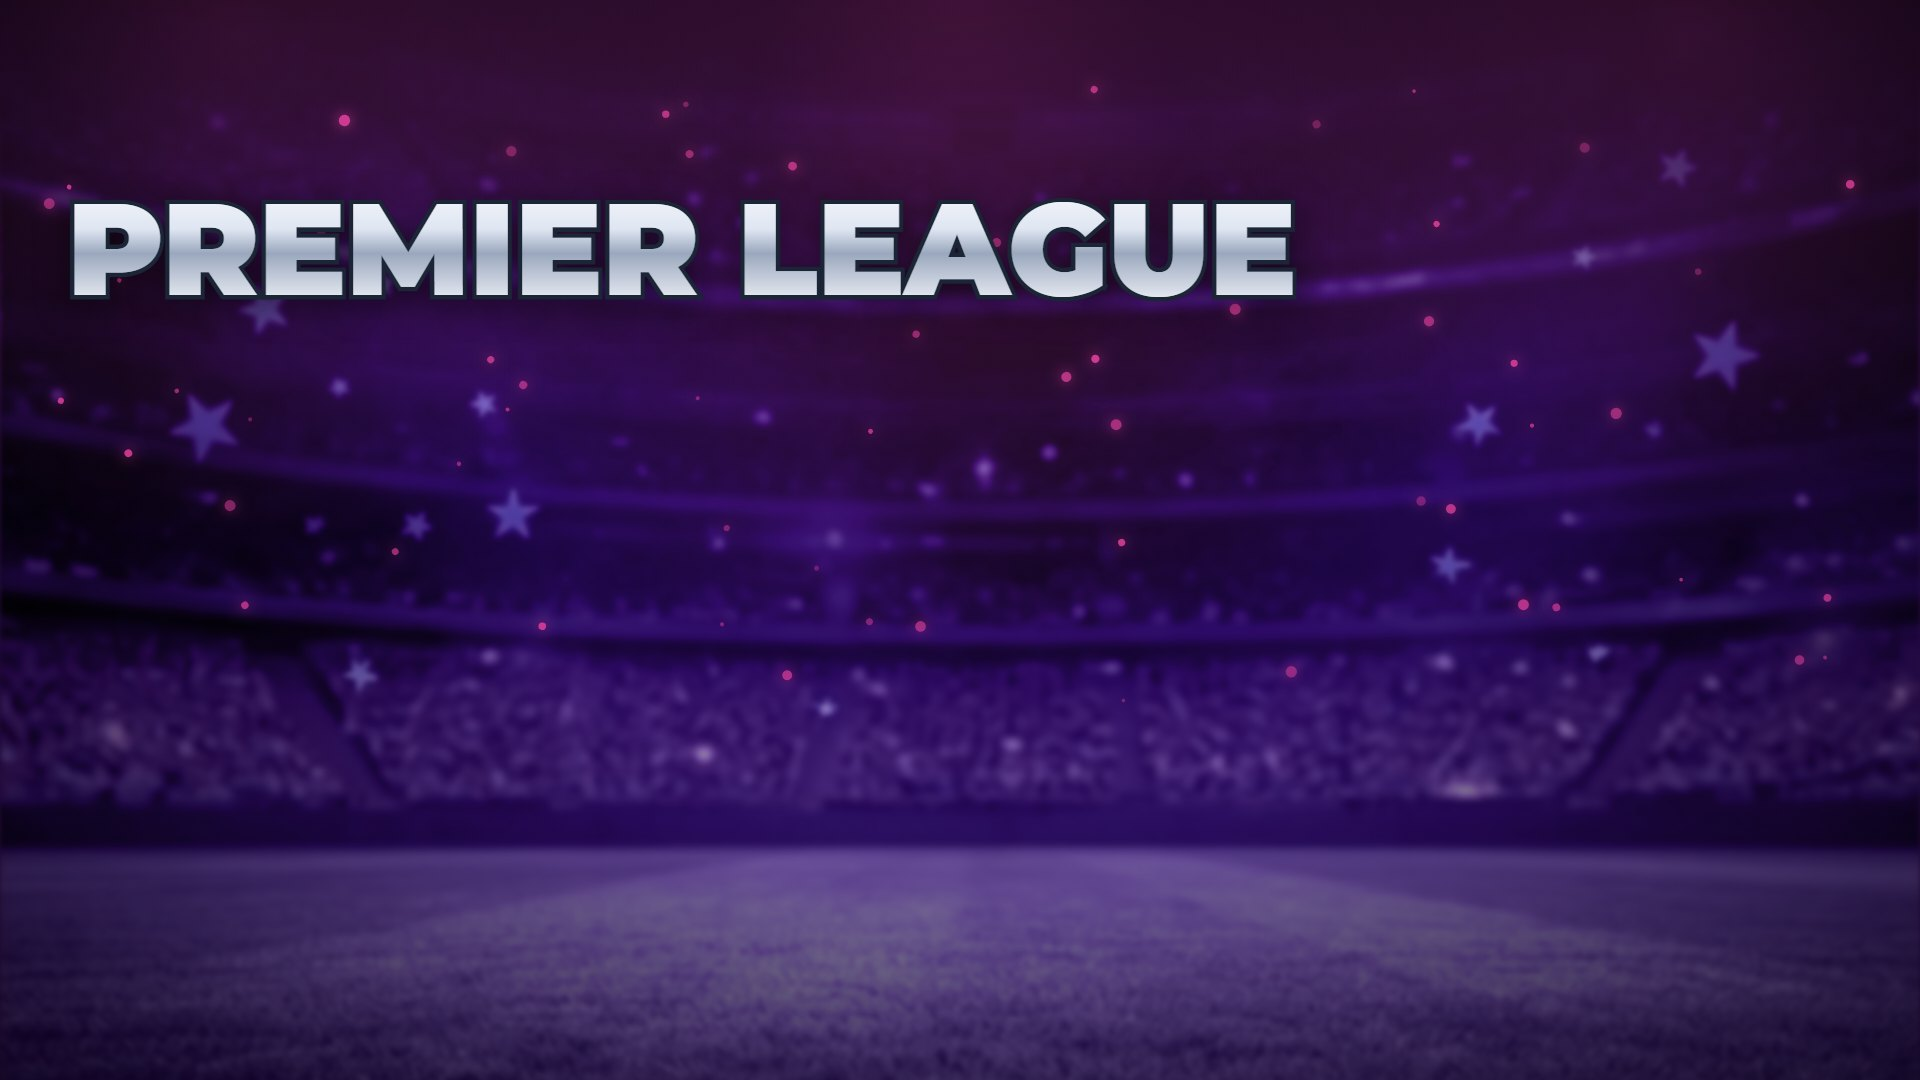
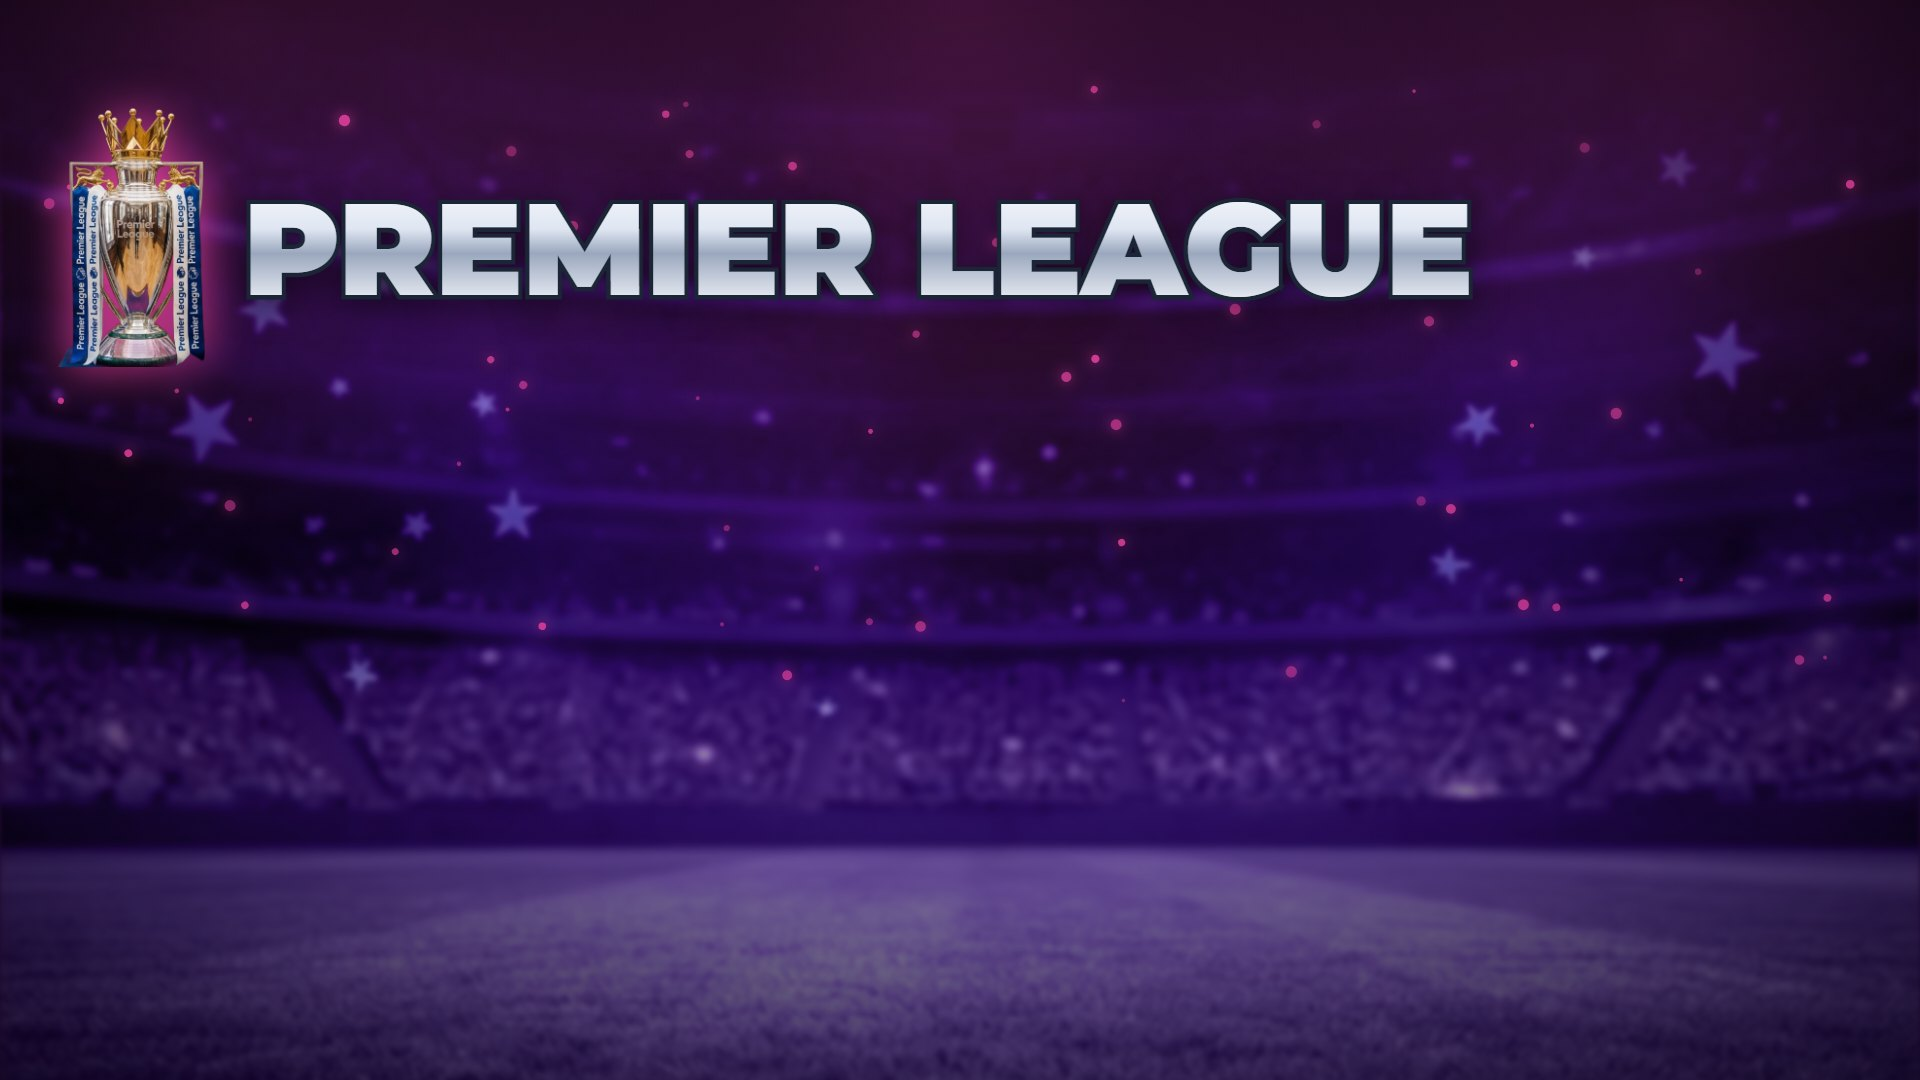
feat(esportes): taças da Premier, Champions e La Liga nos fundos; textos centralizados e maiores; sem rodapé na tela (Player 5.6.5) — F-89

Changed region(s): [[0.0, 0.0917, 0.7812, 0.3667]]

diff --git a/native-android-player/app/src/main/java/com/antigravity/player/util/NativeWidgetEngine.kt b/native-android-player/app/src/main/java/com/antigravity/player/util/NativeWidgetEngine.kt
@@ -1286,7 +1286,6 @@ object NativeWidgetEngine {
      */
     private fun buildSportsV2(context: Context, spec: WidgetSpec, bg: Bitmap?, w: Int, h: Int, base: Float, dados: EsportesPayload): View {
         val cores = spec.cores ?: CoresWidget.PADRAO
-        val creditos = spec.esportes?.creditos ?: "Dados: openfootball (CC0) · Wikipédia (CC BY-SA)"
         val tema = bg == null && dados.fundos.isNotEmpty()
         val root = if (tema) FrameLayout(context).apply {
             background = GradientDrawable(GradientDrawable.Orientation.TL_BR, intArrayOf(cores.c1, cores.c2, cores.c3))
@@ -1307,14 +1306,7 @@ object NativeWidgetEngine {
         col.addView(cabecalhoMarca(context, "⚽ FUTEBOL", base, cores), lp())
         val area = FrameLayout(context)
         col.addView(area, LinearLayout.LayoutParams(ViewGroup.LayoutParams.MATCH_PARENT, 0, 1f))
-        val rodape = LinearLayout(context).apply { orientation = LinearLayout.HORIZONTAL; gravity = Gravity.CENTER_VERTICAL }
-        rodape.addView(text(context, base * 0.019f, color = Color.argb(160, 255, 255, 255)).apply {
-            text = "Horário de Brasília · $creditos"; gravity = Gravity.START; setShadowLayer(0f, 0f, 0f, 0)
-        }, LinearLayout.LayoutParams(0, ViewGroup.LayoutParams.WRAP_CONTENT, 1f))
-        val contador = text(context, base * 0.019f, color = Color.argb(160, 255, 255, 255))
-        rodape.addView(contador)
-        col.addView(rodape, lp(top = px(base * 0.012f)))
-
+        // Sem rodapé na tela (pedido do proprietário, F-89): nem fonte dos dados, nem horário, nem contador de páginas.
         if (dados.indices.isEmpty()) {
             area.addView(text(context, base * 0.036f, color = Color.argb(215, 255, 255, 255), lines = 2).apply {
                 text = "Sem jogos nos 3 dias anteriores nem nos próximos 3 dias."
@@ -1334,9 +1326,8 @@ object NativeWidgetEngine {
             val vertical = h > w * 1.2f
             area.addView(paginaEsportes(context, dados.paginas[indice], dados.hoje, dados.escudos, base, cores, tema,
                 espacoTitulo = if (tituloNaArte) px(h * (if (vertical) 0.3f else 0.25f)) else 0,
-                escala = if (tituloNaArte && !vertical) 0.8f else 1f, centralizarSubtitulo = vertical),
+                escala = if (tituloNaArte && !vertical) 0.8f else 1f),
                 FrameLayout.LayoutParams(ViewGroup.LayoutParams.MATCH_PARENT, ViewGroup.LayoutParams.MATCH_PARENT))
-            contador.text = if (total > 1) "${indice + 1}/$total" else ""
             gravarCursorEsportes(context.applicationContext, spec.widgetId, EsportesPaginas.cursorDepois(indice, total, dados.hoje))
         }
         mostrar(dados.indices[0])
@@ -1363,13 +1354,13 @@ object NativeWidgetEngine {
 
     private fun paginaEsportes(
         context: Context, p: PaginaEsportes, hoje: String, escudos: Map<String, Bitmap>, base: Float, cores: CoresWidget,
-        escuro: Boolean = false, espacoTitulo: Int = 0, escala: Float = 1f, centralizarSubtitulo: Boolean = false
+        escuro: Boolean = false, espacoTitulo: Int = 0, escala: Float = 1f
     ): View {
         val pagina = LinearLayout(context).apply { orientation = LinearLayout.VERTICAL }
         if (espacoTitulo > 0) {
             pagina.addView(View(context), LinearLayout.LayoutParams(ViewGroup.LayoutParams.MATCH_PARENT, espacoTitulo))
-            pagina.addView(text(context, base * 0.03f, bold = true, color = Color.argb(230, 255, 255, 255)).apply {
-                text = "RESULTADOS E PRÓXIMOS JOGOS"; gravity = if (centralizarSubtitulo) Gravity.CENTER else Gravity.START; letterSpacing = 0.18f
+            pagina.addView(text(context, base * 0.044f, bold = true).apply {
+                text = "RESULTADOS E PRÓXIMOS JOGOS"; gravity = Gravity.CENTER; letterSpacing = 0.16f
             }, lp())
             val corpoArte = LinearLayout(context).apply { orientation = LinearLayout.VERTICAL; gravity = Gravity.CENTER_VERTICAL }
             pagina.addView(corpoArte, LinearLayout.LayoutParams(ViewGroup.LayoutParams.MATCH_PARENT, 0, 1f))
@@ -1398,12 +1389,13 @@ object NativeWidgetEngine {
     private fun secoesEsportes(context: Context, corpo: LinearLayout, p: PaginaEsportes, hoje: String, escudos: Map<String, Bitmap>, base: Float, cores: CoresWidget, escuro: Boolean) {
         fun secao(rotulo: String, jogos: List<JogoEsporte>, encerrado: Boolean, topo: Int) {
             if (jogos.isEmpty()) return
-            val cab = LinearLayout(context).apply { orientation = LinearLayout.HORIZONTAL; gravity = Gravity.CENTER_VERTICAL }
-            cab.addView(text(context, base * 0.025f, bold = true, color = cores.selo).apply {
+            val cab = LinearLayout(context).apply { orientation = LinearLayout.HORIZONTAL; gravity = Gravity.CENTER }
+            fun linhaDivisoria() = View(context).apply { setBackgroundColor(CoresWidget.comAlfa(cores.selo, 128)) }
+            cab.addView(linhaDivisoria(), LinearLayout.LayoutParams(0, px(base * 0.0015f).coerceAtLeast(1), 1f).apply { marginEnd = px(base * 0.016f) })
+            cab.addView(text(context, base * 0.029f, bold = true, color = cores.selo).apply {
                 text = rotulo; letterSpacing = 0.2f; setShadowLayer(0f, 0f, 0f, 0)
             })
-            cab.addView(View(context).apply { setBackgroundColor(CoresWidget.comAlfa(cores.selo, 128)) },
-                LinearLayout.LayoutParams(0, px(base * 0.0015f).coerceAtLeast(1), 1f).apply { marginStart = px(base * 0.012f) })
+            cab.addView(linhaDivisoria(), LinearLayout.LayoutParams(0, px(base * 0.0015f).coerceAtLeast(1), 1f).apply { marginStart = px(base * 0.016f) })
             corpo.addView(cab, lp(top = topo))
             jogos.forEach { j -> corpo.addView(linhaJogoV2(context, j, hoje, escudos, base, cores, encerrado, escuro), lp(top = px(base * 0.01f))) }
         }

diff --git a/docs/engineering/evidence/F-86_esportes_v2/gerador_fundos_v2.html b/docs/engineering/evidence/F-86_esportes_v2/gerador_fundos_v2.html
@@ -15,9 +15,9 @@ function rng(seed) { let s = seed; return () => (s = (s * 16807) % 2147483647) /
 const TEMAS = {
   'copa-do-brasil':   { placa: 'dourada', taca: 'copa', linhas: ['COPA DO BRASIL'], estilo: 'ouro', particula: 'confete', tinta: null, brilho: '#ffcf4d' },
   brasileirao:        { placa: 'azul', taca: 'brasileirao', linhas: ['BRASILEIRÃO', 'SÉRIE A'], estilo: 'prata', particula: 'estrela', tinta: null, brilho: '#5aa9ff' },
-  'premier-league':   { placa: 'azul', taca: null, linhas: ['PREMIER LEAGUE'], estilo: 'prata', particula: 'faisca', tinta: '#6a1bb0', brilho: '#e0409a' },
-  'la-liga':          { placa: 'azul', taca: null, linhas: ['LA LIGA'], estilo: 'prata', particula: 'faisca', tinta: '#c0162c', brilho: '#ff7a3d' },
-  'champions-league': { placa: 'azul', taca: null, linhas: ['CHAMPIONS LEAGUE'], estilo: 'prata', particula: 'estrela', tinta: '#0b2d8a', brilho: '#b9d4ff' },
+  'premier-league':   { placa: 'azul', taca: 'premier', linhas: ['PREMIER LEAGUE'], estilo: 'prata', particula: 'faisca', tinta: '#6a1bb0', brilho: '#e0409a' },
+  'la-liga':          { placa: 'azul', taca: 'laliga', linhas: ['LA LIGA'], estilo: 'prata', particula: 'faisca', tinta: '#c0162c', brilho: '#ff7a3d' },
+  'champions-league': { placa: 'azul', taca: 'champions', linhas: ['CHAMPIONS LEAGUE'], estilo: 'prata', particula: 'estrela', tinta: '#0b2d8a', brilho: '#b9d4ff' },
 };
 
 function gradienteTexto(ctx, estilo, y0, y1) {
@@ -27,9 +27,11 @@ function gradienteTexto(ctx, estilo, y0, y1) {
   return g;
 }
 
-function texto(ctx, t, x, y, tam, estilo, alinhar) {
+function texto(ctx, t, x, y, tam, estilo, alinhar, larguraMax) {
   ctx.save();
   ctx.font = `900 ${tam}px Montserrat`;
+  // nome longo (ex.: CHAMPIONS LEAGUE): a letra diminui até caber na largura disponível
+  if (larguraMax) { const l = ctx.measureText(t).width; if (l > larguraMax) { tam = tam * (larguraMax / l); ctx.font = `900 ${tam}px Montserrat`; } }
   ctx.textAlign = alinhar; ctx.textBaseline = 'alphabetic';
   ctx.shadowColor = 'rgba(0,0,0,0.75)'; ctx.shadowBlur = tam * 0.25; ctx.shadowOffsetY = tam * 0.06;
   ctx.lineWidth = Math.max(3, tam * 0.07); ctx.strokeStyle = estilo === 'ouro' ? '#3a2600' : '#1b2536';
@@ -100,7 +102,7 @@ async function desenhar(slug, tema, W, H, ref, tacas) {
     }
     const tamA = tema.linhas.length > 1 ? H * 0.105 : H * 0.12;
     const yA = topo + (tema.linhas.length > 1 ? altura * 0.58 : altura * 0.72);
-    texto(ctx, tema.linhas[0], xTexto, yA, tamA, tema.estilo, 'left');
+    texto(ctx, tema.linhas[0], xTexto, yA, tamA, tema.estilo, 'left', W * 0.96 - xTexto);
     if (tema.linhas[1]) texto(ctx, tema.linhas[1], xTexto + 4, yA + H * 0.075, H * 0.055, 'prata', 'left');
   } else {
     const topo = H * 0.07;
@@ -111,7 +113,7 @@ async function desenhar(slug, tema, W, H, ref, tacas) {
       yTexto = topo + th + H * 0.05;
     }
     const tamA = Math.min(W * 0.115, (W * 0.9) / (tema.linhas[0].length * 0.62));
-    texto(ctx, tema.linhas[0], W / 2, yTexto, tamA, tema.estilo, 'center');
+    texto(ctx, tema.linhas[0], W / 2, yTexto, tamA, tema.estilo, 'center', W * 0.92);
     if (tema.linhas[1]) texto(ctx, tema.linhas[1], W / 2, yTexto + H * 0.035, W * 0.055, 'prata', 'center');
   }
   return new Promise((ok) => c.toBlob(ok, 'image/jpeg', 0.86));
@@ -121,7 +123,8 @@ async function desenhar(slug, tema, W, H, ref, tacas) {
   try {
     await document.fonts.load('900 80px Montserrat');
     const ref = await carregar('/ref3.png');
-    const tacas = { copa: await carregar('/recortes/copa_ref_recorte.png'), brasileirao: await carregar('/recortes/brasileirao_ref_recorte.png') };
+    const tacas = { copa: await carregar('/recortes/copa_ref_recorte.png'), brasileirao: await carregar('/recortes/brasileirao_ref_recorte.png'),
+      premier: await carregar('/recortes/premier_ref_recorte.png'), champions: await carregar('/recortes/champions_ref_recorte.png'), laliga: await carregar('/recortes/laliga_ref_recorte.png') };
     for (const [slug, tema] of Object.entries(TEMAS)) {
       for (const [suf, W, H] of [['h', 1920, 1080], ['v', 1080, 1920]]) {
         const blob = await desenhar(slug, tema, W, H, ref, tacas);

diff --git a/src/components/player/SportsWidget.tsx b/src/components/player/SportsWidget.tsx
@@ -8,8 +8,6 @@ import {
   type CursorEsportes, type JogoJanela, type PaginaEsportes,
 } from '@/lib/esportesPaginas';
 
-const CREDITOS = 'Dados: openfootball (CC0) · Wikipédia (CC BY-SA)';
-
 function lerCursor(widgetId?: string): CursorEsportes | null {
   if (!widgetId) return null;
   try {
@@ -173,7 +171,7 @@ export function SportsWidget({ config, dados: dadosServidor, backgroundImage, co
             <div data-testid="sports-titulo-na-arte">
               <h2 className="sr-only" data-testid="sports-competicao">{pagina.competicao}</h2>
               <div style={{ height: vertical ? '30cqh' : '25cqh' }} />
-              <p className={cn('text-[3cqmin] font-bold uppercase tracking-[0.18em] text-white/90', vertical && 'text-center')} data-testid="sports-subtitulo">Resultados e próximos jogos</p>
+              <p className="text-center text-[4.4cqmin] font-extrabold uppercase leading-tight tracking-[0.16em] text-white drop-shadow" data-testid="sports-subtitulo">Resultados e próximos jogos</p>
             </div>
           ) : (
             <div className="border-l-[0.9cqmin] pl-[1.8cqmin]" style={{ borderColor: c.selo }}>
@@ -201,10 +199,8 @@ export function SportsWidget({ config, dados: dadosServidor, backgroundImage, co
         </p>
       )}
 
-      <div className="relative z-10 mt-[1.2cqmin] flex items-center justify-between gap-2 text-[1.9cqmin] text-white/60">
-        <span>Horário de Brasília · {dados?.creditos ?? CREDITOS}</span>
-        {paginas.length > 1 && <span className="tabular-nums" data-testid="sports-pagina">{indice + 1}/{paginas.length}</span>}
-      </div>
+      {/* Sem rodapé na tela (pedido do proprietário): a posição da página fica só para leitores de tela. */}
+      {paginas.length > 1 && <span className="sr-only" data-testid="sports-pagina">{indice + 1}/{paginas.length}</span>}
     </div>
   );
 }
@@ -214,8 +210,9 @@ function chaveJogo(j: JogoJanela) { return `${j.slug}-${j.data}-${j.mandante}-${
 function Secao({ titulo, cor, children }: { titulo: string; cor: string; children: React.ReactNode }) {
   return (
     <section className="flex flex-col gap-[1cqmin]" data-testid={`sports-secao-${titulo === 'RESULTADOS' ? 'resultados' : 'proximos'}`}>
-      <div className="flex items-center gap-[1.2cqmin]">
-        <span className="text-[2.5cqmin] font-extrabold tracking-[0.2em]" style={{ color: cor }}>{titulo}</span>
+      <div className="flex items-center justify-center gap-[1.6cqmin]">
+        <span className="h-px flex-1" style={{ background: rgba(cor, 0.5) }} />
+        <span className="text-[2.9cqmin] font-extrabold tracking-[0.2em]" style={{ color: cor }} data-testid="sports-rotulo-secao">{titulo}</span>
         <span className="h-px flex-1" style={{ background: rgba(cor, 0.5) }} />
       </div>
       {children}

diff --git a/src/tests/unit/esportesWidget.test.tsx b/src/tests/unit/esportesWidget.test.tsx
@@ -179,3 +179,19 @@ describe('Esportes v2 — fundo com a taça e o nome da competição (F-88)', ()
     expect(screen.getByTestId('sports-competicao')).not.toHaveClass('sr-only');
   });
 });
+
+describe('Esportes v2 — tela limpa (F-89)', () => {
+  beforeEach(() => { vi.useFakeTimers({ toFake: ['setTimeout', 'clearTimeout', 'Date'] }); vi.setSystemTime(new Date('2026-10-10T12:00:00-03:00')); localStorage.clear(); });
+  afterEach(() => { vi.useRealTimers(); localStorage.clear(); });
+
+  it('sem rodapé visível: nem a fonte dos dados, nem "Horário de Brasília", nem o contador de páginas', () => {
+    render(<SportsWidget config={{}} dados={v2(JANELA)} widgetId="w5" modo="player" />);
+    expect(screen.queryByText(/openfootball|Wikipédia|Horário de Brasília/)).toBeNull();
+    expect(screen.getByTestId('sports-pagina')).toHaveClass('sr-only');
+  });
+
+  it('RESULTADOS e PRÓXIMOS JOGOS centralizados (linha dos dois lados)', () => {
+    render(<SportsWidget config={{}} dados={v2(JANELA)} widgetId="w6" modo="player" />);
+    for (const r of screen.getAllByTestId('sports-rotulo-secao')) expect(r.parentElement).toHaveClass('justify-center');
+  });
+});

diff --git a/docs/engineering/FINDINGS_LEDGER.md b/docs/engineering/FINDINGS_LEDGER.md
@@ -911,3 +911,14 @@ Cadeia auditada: `ScreenDetails` (Lista de Reprodução) e `PlaylistItemsDialog`
   - O 1º desenho mostrou o subtítulo sobre o letreiro da arte. O espaço reservado passou a 25% da altura na horizontal (linhas a 80%) e 30% na vertical, com o subtítulo centralizado na vertical.
   - Resultado: taça + nome da arte, depois "RESULTADOS E PRÓXIMOS JOGOS" e os jogos, sem sobreposição (evidência `player564_*_arte.png`).
[1 lines of base64/hex data omitted]
+
+### F-89 — Esportes: taças da Premier, Champions e La Liga; textos centralizados; sem rodapé — DONE (Player 5.6.5)
+- **Taças:** as três foram recortadas localmente da imagem enviada pelo proprietário e colocadas nos fundos 16:9 e 9:16, no mesmo padrão da Copa do Brasil e do Brasileirão. O letreiro se ajusta à largura disponível (CHAMPIONS LEAGUE / PREMIER LEAGUE). URLs `?v=4` (migração `20261259`).
+- **Textos:**
+  - "RESULTADOS E PRÓXIMOS JOGOS" centralizado e maior (4,4% da menor dimensão, proporcional em 16:9 e 9:16).
+  - "RESULTADOS" e "PRÓXIMOS JOGOS" (amarelo) centralizados, com linha dos dois lados.
+- **Rodapé removido da tela** (pedido do proprietário): sem "Horário de Brasília", sem a fonte dos dados e sem o contador de páginas.
+  - A posição da página fica só para leitores de tela (`sr-only`).
+  - As fontes continuam registradas no banco (`creditos`) e nesta documentação.
+  - Nota: os fatos de jogo (placares, datas) vêm do openfootball (CC0) e da Wikipédia; não há texto da Wikipédia reproduzido na tela.
+- **Prova:** web 160/1622 (+2 testes: sem rodapé visível; rótulos centralizados); JVM 205/205.
